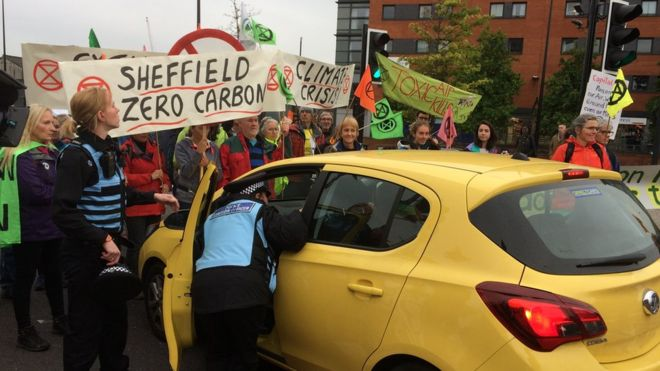
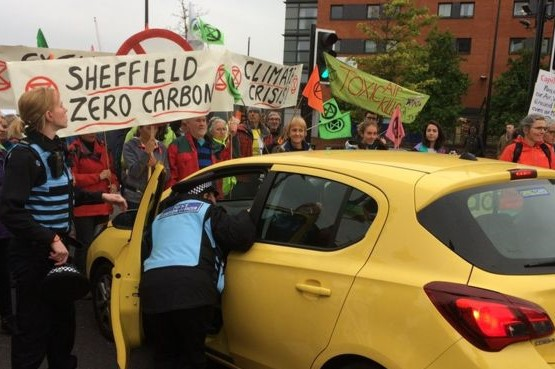
cropped images down to make fit nicer, formatted them individually with id's

diff --git a/news.html b/news.html
@@ -7,7 +7,8 @@
   <body>
 
     <div>
-      <h1>News</h1>
+      <div class ="container">
+        <h1>News</h1>
       <h2>Events & Discussion in Sheffield</h2>
       </div>
 
@@ -15,36 +16,34 @@
       <div class ="container">
       <div class ="row">
         <div class="col-sm-3">
-           <img id="bbcprotest"><img class="img-fluid"> <img src=bbc_article_extinc_reb.jpg alt="Protest in Sheffield" width="300px">
+           <img id="bbcprotest" class="img-fluid" src=bbc_article_extinc_reb.jpg alt="Protest in Sheffield" width="300px" height="150">
          </div>
          <div class="col-sm-9">
            <h3>Extinction Rebellion protest blocks Sheffield ring road</h3>
-           <p>September 2019: Extinction Rebellion climate change campaigners caused major rush hour delays in a protest over road-widening in Sheffield, which they state "undermines its declaration of a climate emergency".</p>
-         To see the full article, click here: <a href="https://www.bbc.co.uk/news/uk-england-south-yorkshire-49632926">Extinction Rebellion protest blocks Sheffield ring road</a>
+           <p>September 2019: Extinction Rebellion climate change campaigners caused major rush hour delays in a protest over road-widening in Sheffield, which they state "undermines its declaration of a climate emergency". To see the full article, click here: <a href="https://www.bbc.co.uk/news/uk-england-south-yorkshire-49632926">Extinction Rebellion protest blocks Sheffield ring road</a></p>
        </div>
-
+<br>
        <div>
          <div class ="container">
          <div class ="row">
            <div class="col-sm-3">
-              <img id="starscores"><img class="img-fluid"> <img src="star_poor_perform.jpg" alt="Protest in Sheffield" width="300px">
+              <img id="starscores" class="img-fluid" src="star_poor_perform.jpg" alt="Protest in Sheffield" width="300px">
             </div>
             <div class="col-sm-9">
               <h3>Shock at city’s ‘poor’ performance dealing with climate change</h3>
-              <p>October 2019: Sheffield scored only 60% in a recent study looking at looking at renewable energy, public transport, lift-sharing, energy efficiency at home, waste recycling, and tree cover. Nearby Doncaster achieved 76%, and regions elsewhere in the country managed a score of 92%..</p>
-            To see the full article, click here: <a href="https://www.thestar.co.uk/news/shock-citys-poor-performance-dealing-climate-change-8143786">Shock at city’s ‘poor’ performance dealing with climate change</a>
+              <p>October 2019: Sheffield scored only 60% in a recent study looking at looking at renewable energy, public transport, lift-sharing, energy efficiency at home, waste recycling, and tree cover. Nearby Doncaster achieved 76%, and regions elsewhere in the country managed a score of 92%.To see the full article, click here: <a href="https://www.thestar.co.uk/news/shock-citys-poor-performance-dealing-climate-change-8143786">Shock at city’s ‘poor’ performance dealing with climate change
+              </a></p>
           </div>
 
           <div>
             <div class ="container">
             <div class ="row">
               <div class="col-sm-3">
-                 <img id="uniprotest"><img class="img-fluid"> <img src=careers_fair_protests.jpg alt="Advertisement of Careers Fair" width="300px">
+                 <img id="uniprotest" class="img-fluid" src=careers_fair_protests.jpg alt="Advertisement of Careers Fair" width="300px">
                </div>
                <div class="col-sm-9">
                  <h3>Climate protesters storm Sheffield Uni event and ‘force’ oil companies to ‘flee campus’</h3>
-                 <p>October 2019: Climate activists at the University of Sheffield peacefully protested the presence of BP and Exxon Mobil at the “Launchpad” careers fair, by staging a sit-in in the Octagon.</p>
-               To see the full article, click here: <a href="https://thetab.com/uk/sheffield/2019/10/24/protesters-storm-sheffield-uni-event-and-force-oil-companies-to-flee-campus-40490">Climate protesters storm Sheffield Uni event and ‘force’ oil companies to ‘flee campus’</a>
+                 <p>October 2019: Climate activists at the University of Sheffield peacefully protested the presence of BP and Exxon Mobil at the “Launchpad” careers fair, by staging a sit-in in the Octagon. To see the full article, click here: <a href="https://thetab.com/uk/sheffield/2019/10/24/protesters-storm-sheffield-uni-event-and-force-oil-companies-to-flee-campus-40490">Climate protesters storm Sheffield Uni event and ‘force’ oil companies to ‘flee campus’</a></p>
              </div>
   </body>
 </html>

diff --git a/aboutus.html b/aboutus.html
@@ -40,7 +40,7 @@
       <div class ="container">
       <div class ="row">
         <div class="col-sm-3">
-         <img class="img-fluid"> <img id="nevepic"> <img src=nevepicturesquare.jpeg alt="Neve" width="200px">
+         <img class="img-fluid" id="nevepic" src=nevepicturesquare.jpeg alt="Neve" width="200px">
        </div>
        <div class="col-sm-5">
           <h2 class ="neveheader">Neve Coward</h2>
@@ -55,7 +55,7 @@
         <div class ="container">
         <div class ="row">
           <div class="col-sm-3">
-            <img class="img-fluid"> <img id="fenellapic"> <img src=fenellapicture.jpg alt="Fenella" width="200px">
+            <img class="img-fluid" id="fenellapic" src=fenellapicture.jpg alt="Fenella" width="200px">
         </div>
           <div class="col-sm-5">
             <h2 class ="fenellaheader">Fenella Snudden</h2>

diff --git a/css/styles.css b/css/styles.css
@@ -10,18 +10,40 @@ h1 {font-size: 3em;
 h2 {font-size: 2.5em
 }
 
-img:not(.unilogo) {
+h3 {padding-top: 10px;
+  padding-bottom: 5px;
+}
+
+#nevepic {
   display: flex;
   padding: 5px;
   margin: 0 auto;
   border-radius: 130px;
 }
 
+#fenellapic {
+  display: flex;
+  padding: 5px;
+  margin: 0 auto;
+  border-radius: 130px;
+}
+
+#bbcprotest {
+  padding: 7px;
+}
+
+#starscores {
+  padding: 7px;
+}
+
+#uniprotest {
+  padding: 7px;
+}
 
 p {
   justify-content: flex-start;
   text-align: justify;
-}
+  }
 
 a {color: rgb(0,0,0);
 }
